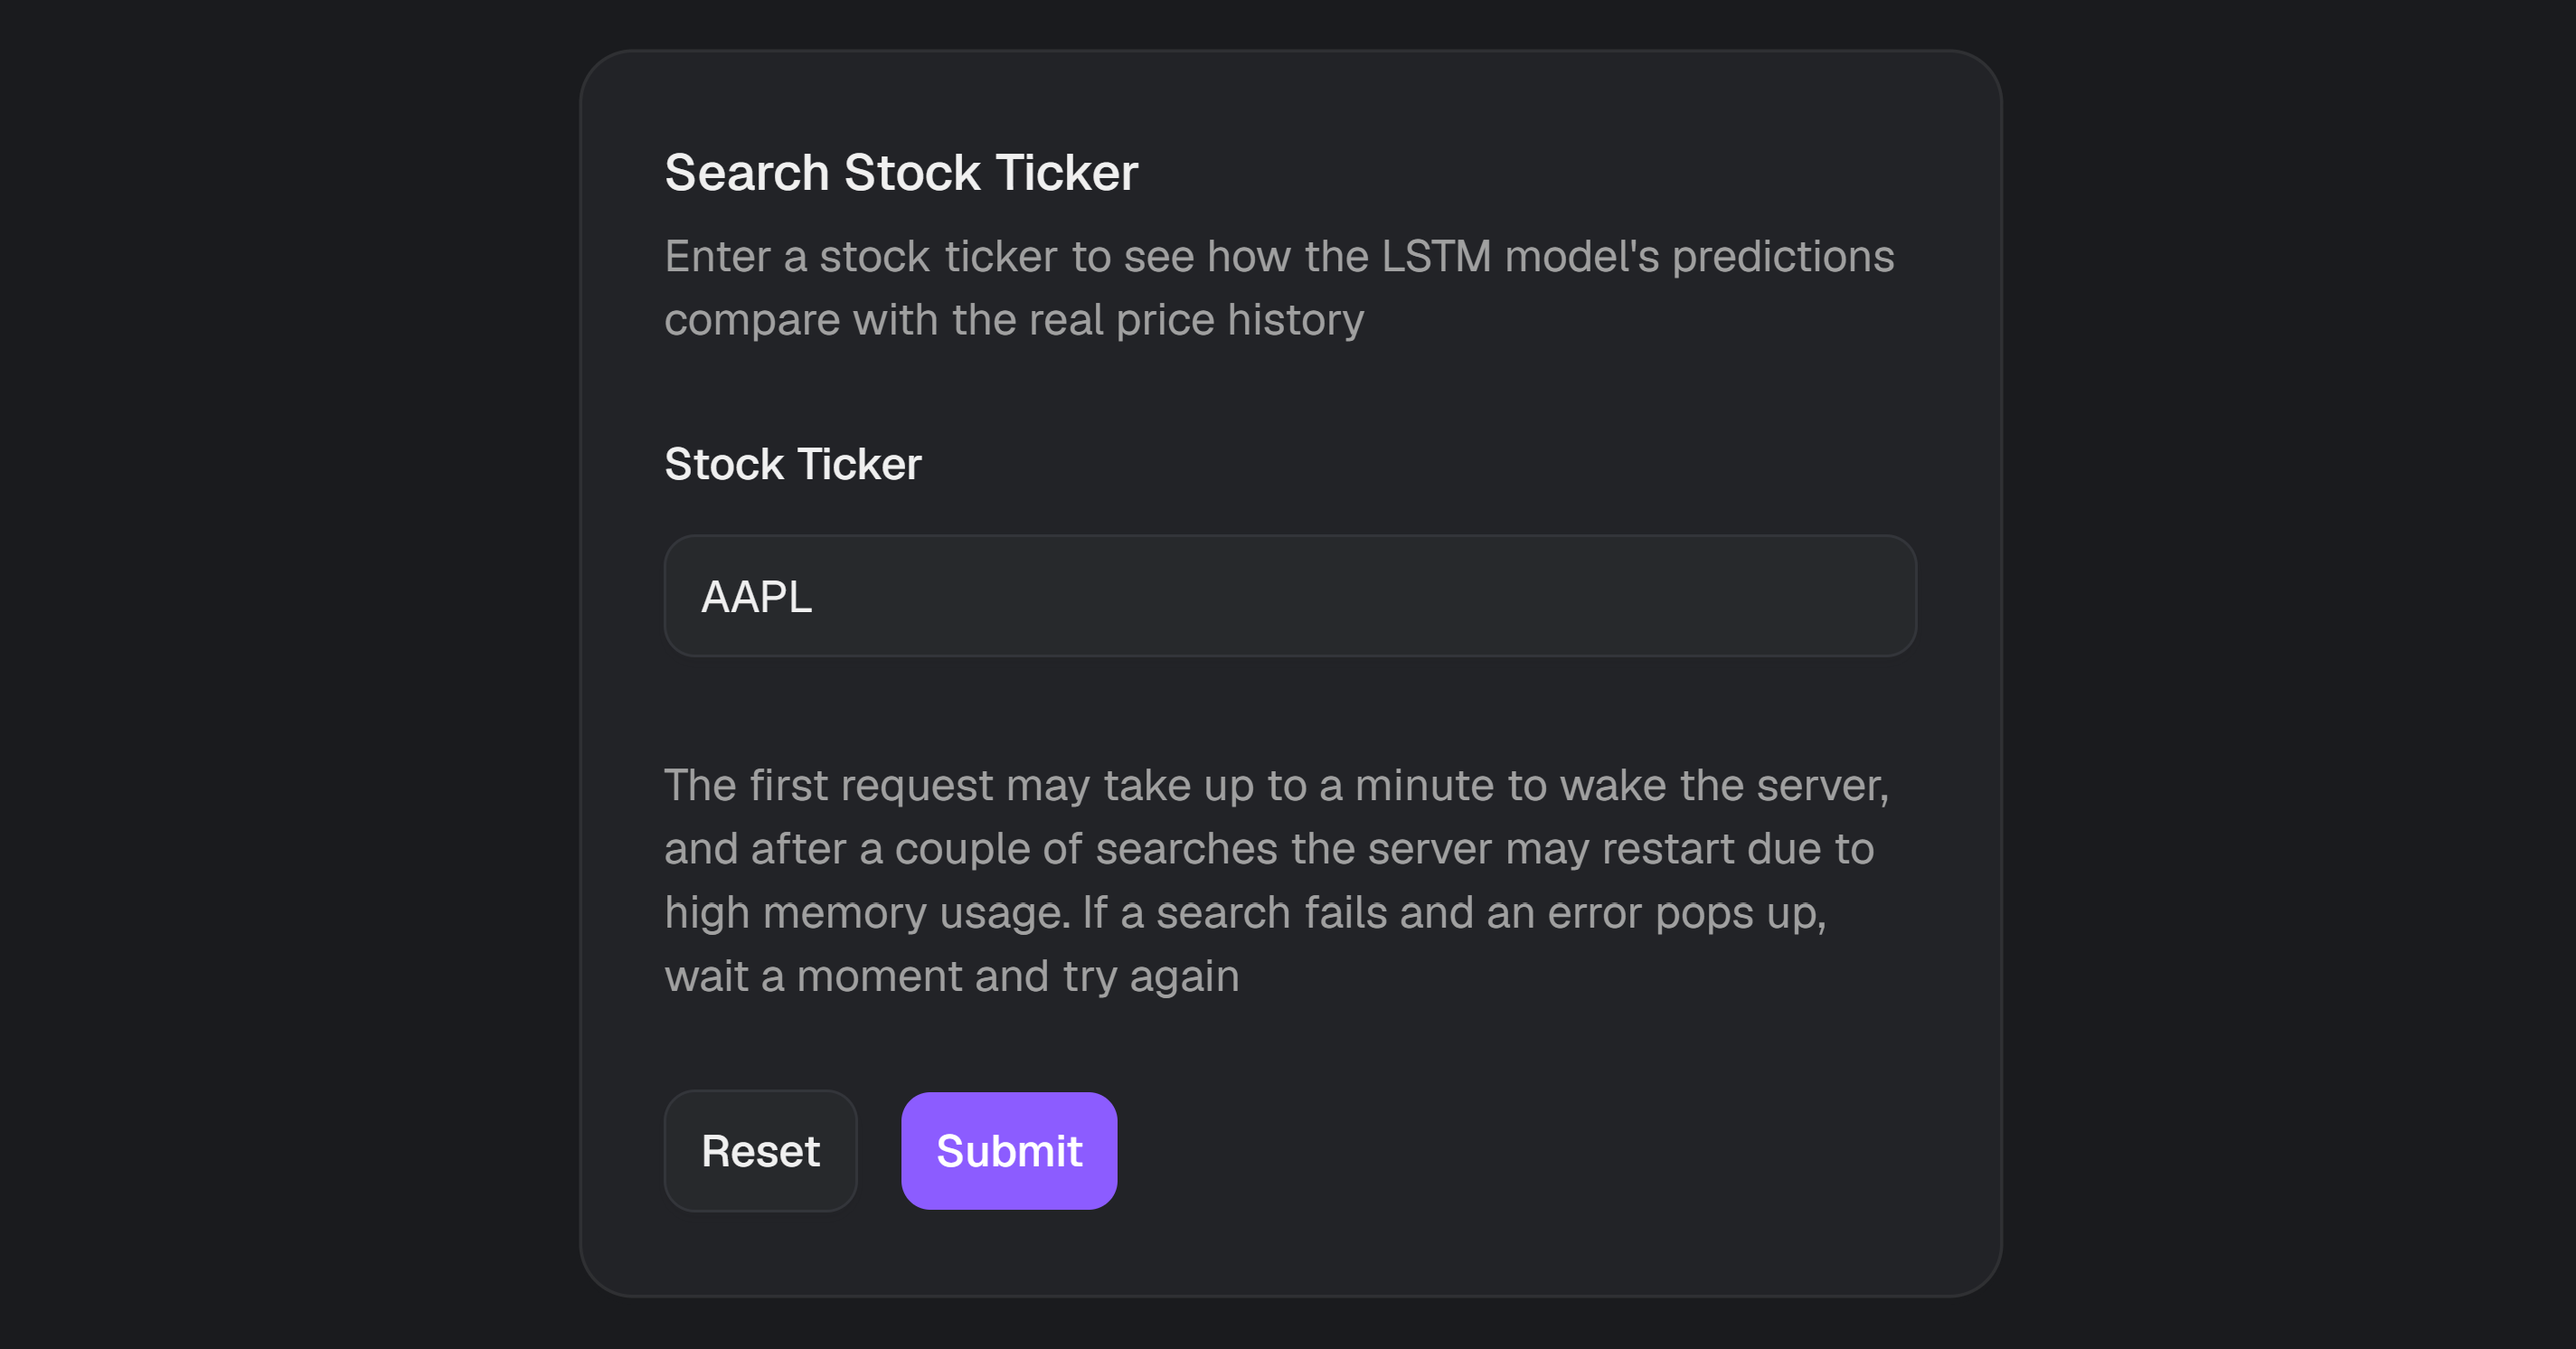
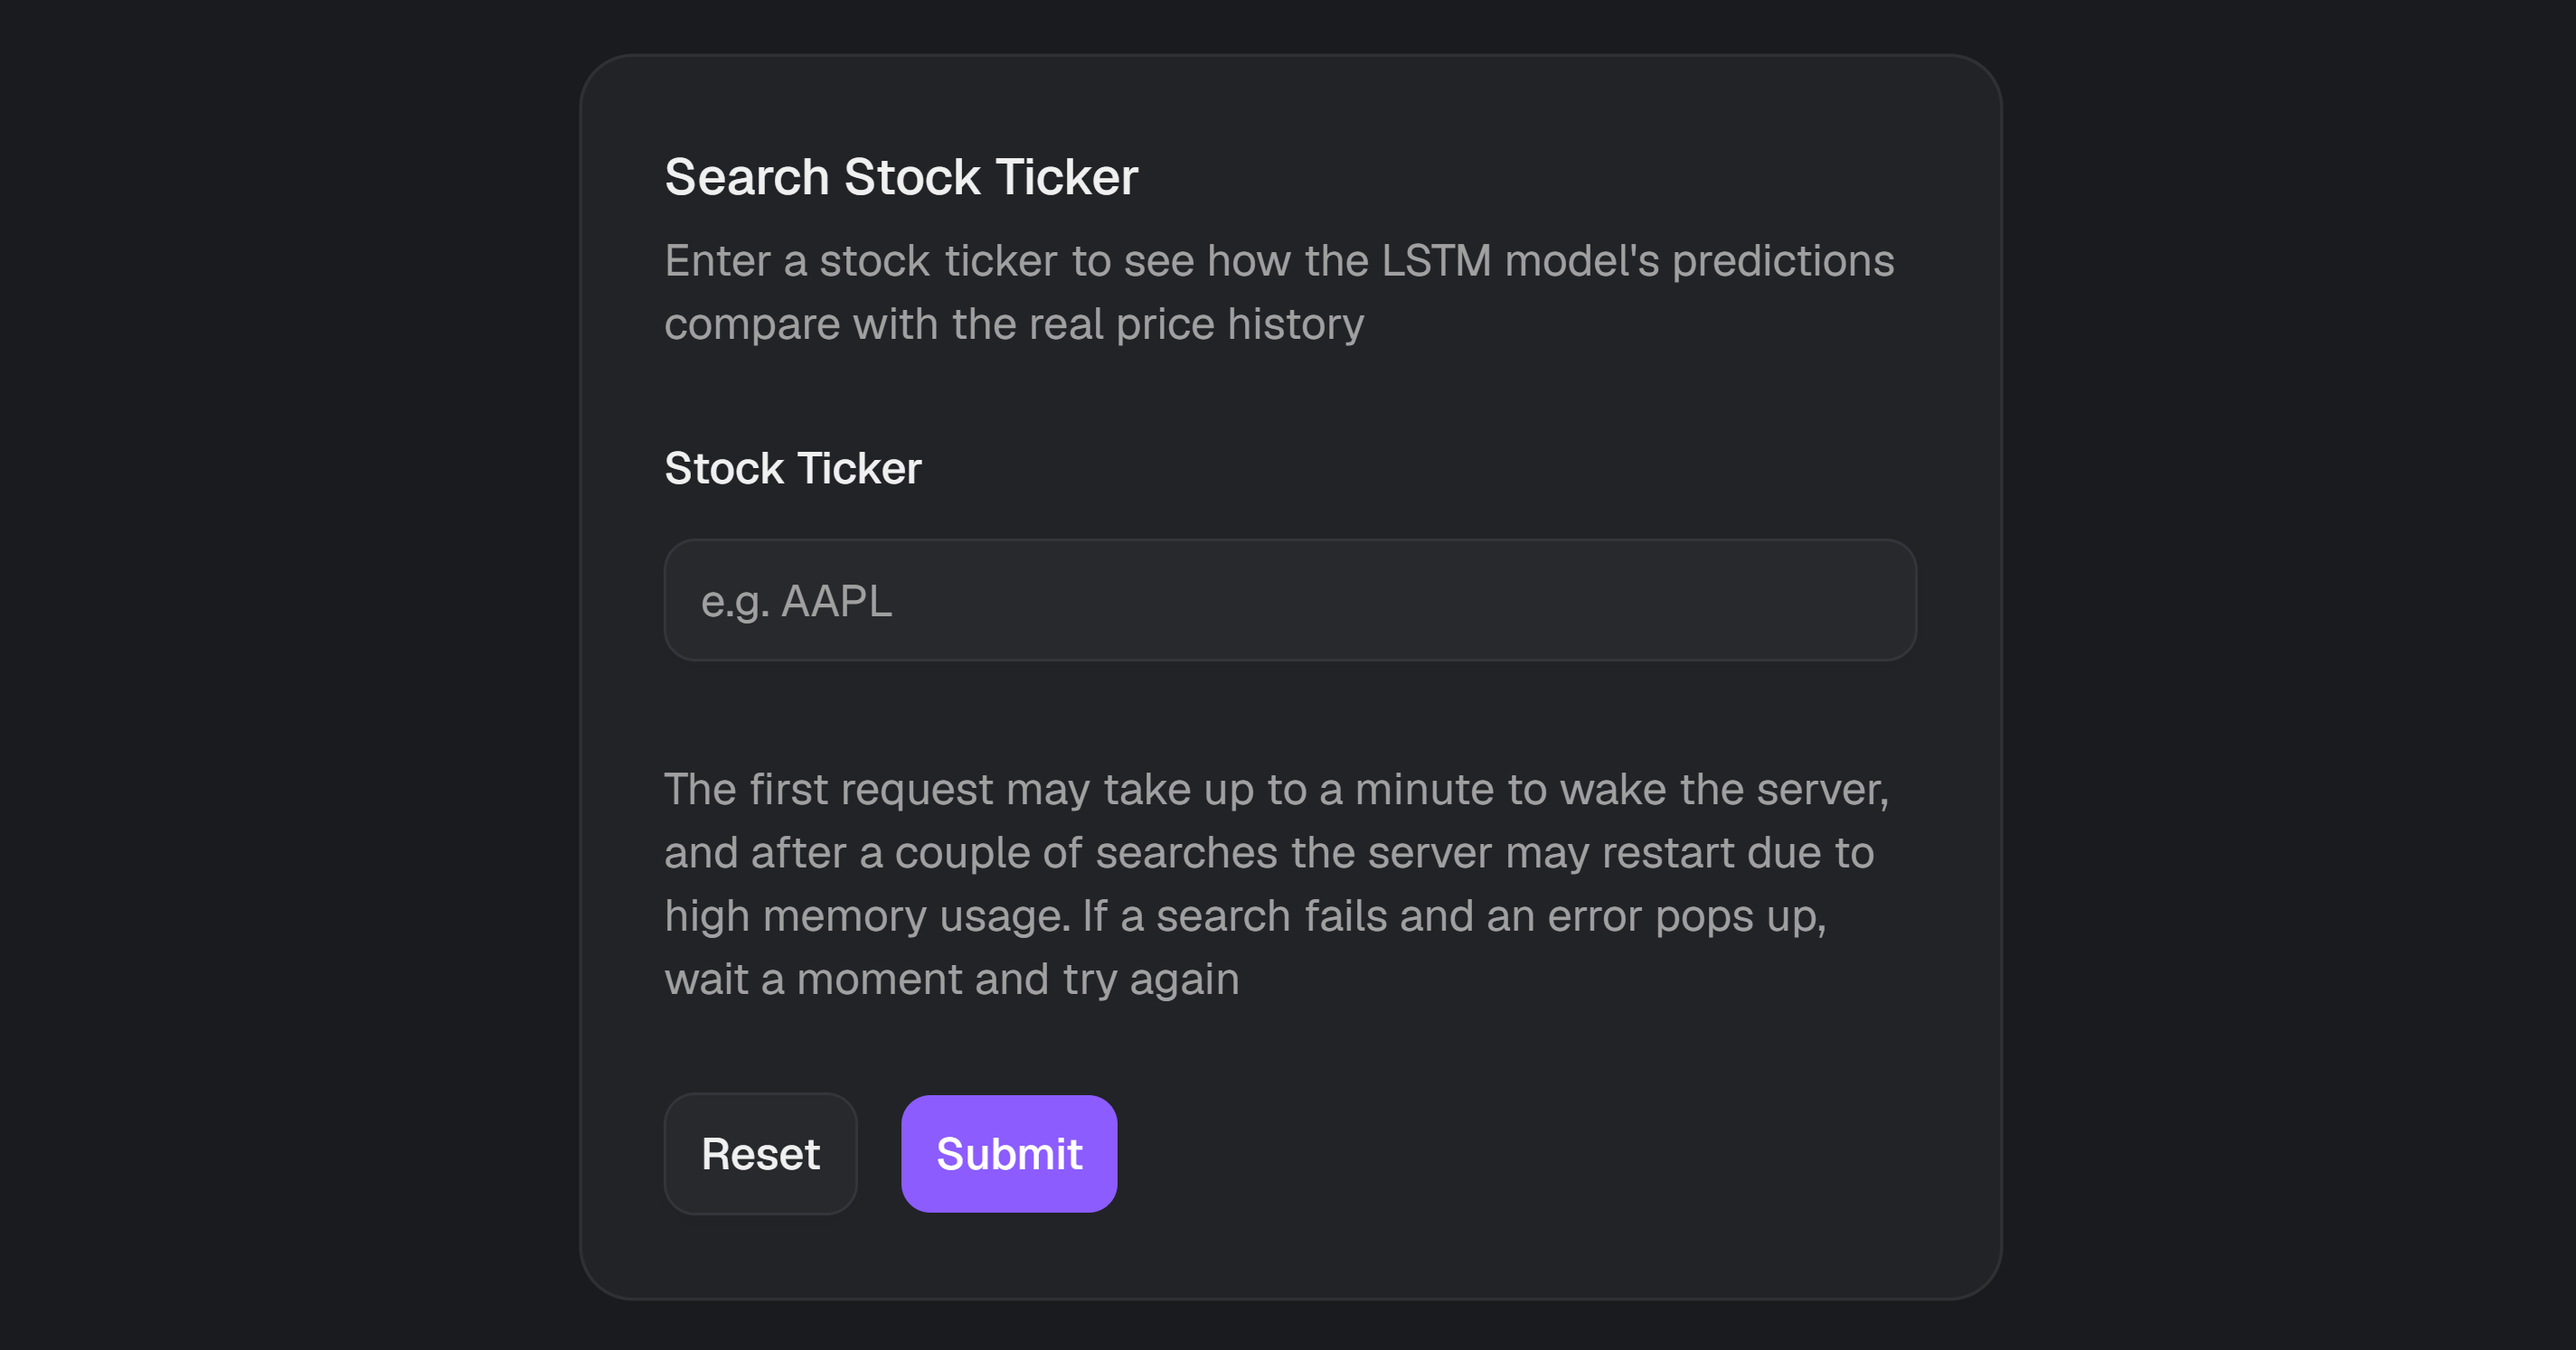
Update Landing.jsx paragraphs to include exta information and improve clarity

diff --git a/react-frontend/src/pages/Landing.tsx b/react-frontend/src/pages/Landing.tsx
@@ -47,8 +47,8 @@ function Landing() {
               stock <span className='text-primary'>prediction</span> app
             </h1>
             <p className='leading-loose mt-4 text-muted-foreground'>
-              This stock prediction application integrates a LSTM model built
-              with Keras within a Django REST Framework backend and a React
+              This stock prediction application integrates an LSTM model built
+              with Keras into a Django REST Framework backend and a React
               frontend. It evaluates the model's predictions against historical
               price data, alongside 100-day and 200-day moving averages,
               indicators commonly used by analysts to gauge price trends
@@ -62,9 +62,15 @@ function Landing() {
               </span>
               . Relying on it for actual investments can lead to significant
               financial loss. It is tested by predicting each day in the most
-              recent 30% of a stock's price history, using the preceding 100
-              days as input, and comparing those predictions against what
+              recent 30% of a stock's price history, using each day's preceding
+              100 days as input, and comparing those predictions against what
               actually happened
+            </p>
+            <p className='mt-4 text-sm text-muted-foreground'>
+              Logging in (including using Try Demo) may take up to a minute
+              while the server wakes up, and after a couple of searches it may
+              restart due to high memory usage. If a search fails and an error
+              pops up, wait a moment and try again
             </p>
             <div className='flex flex-wrap items-center gap-4 mt-4'>
               <Button render={<Link to='/dashboard'>Get Started</Link>} />
